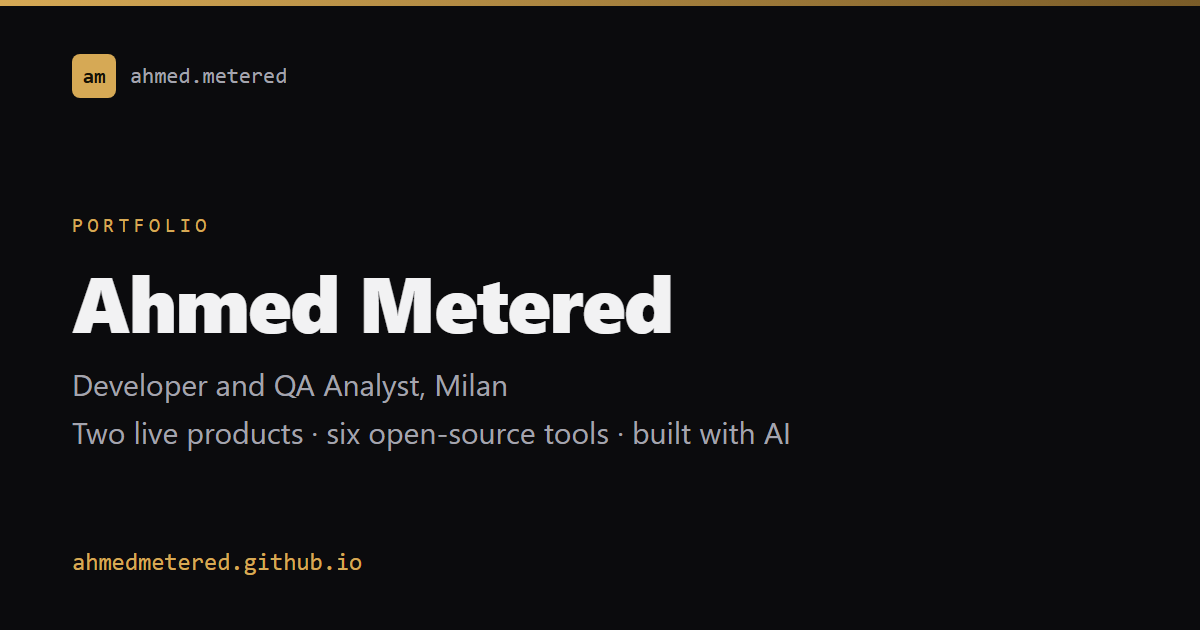
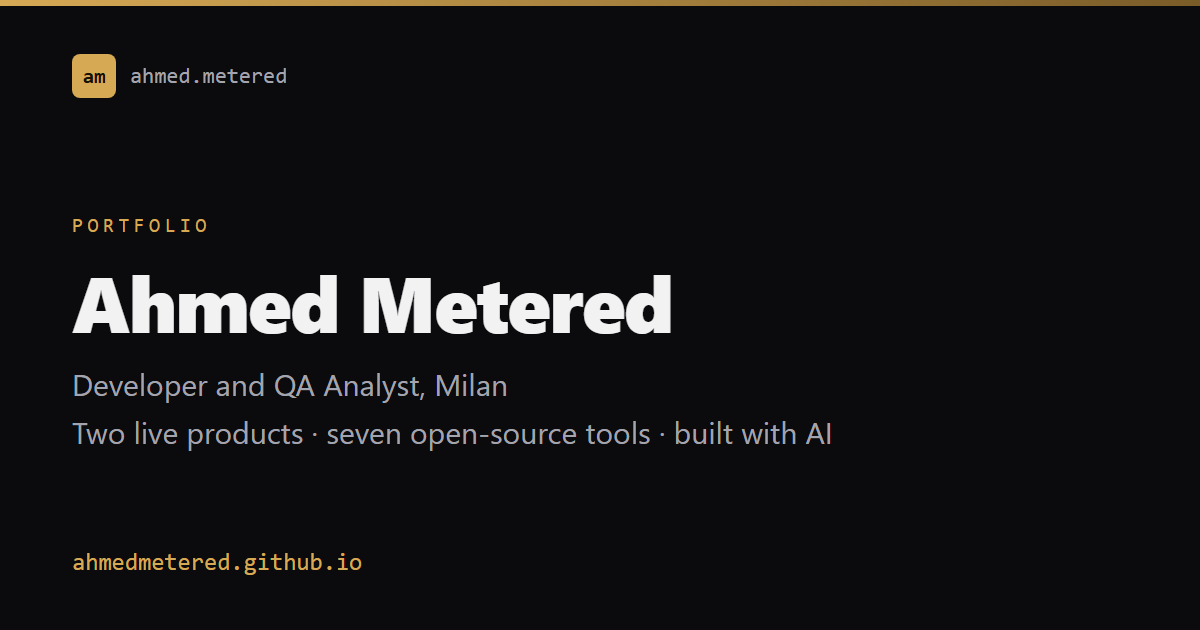
Add anyjobsearch to open-source section, refresh counts to seven repos

Changed region(s): [[0.2775, 0.6635, 0.7092, 0.7238]]

diff --git a/index.html b/index.html
@@ -4,10 +4,10 @@
 <meta charset="UTF-8">
 <meta name="viewport" content="width=device-width, initial-scale=1.0">
 <title>Ahmed Metered · Developer in Milan</title>
-<meta name="description" content="Two live products, a managed-service CRM, and six open-source tools, all built and shipped with AI coding agents. Developer and QA analyst in Milan.">
+<meta name="description" content="Two live products, a managed-service CRM, and seven open-source tools, all built and shipped with AI coding agents. Developer and QA analyst in Milan.">
 <meta name="theme-color" content="#0b0b0d">
 <meta property="og:title" content="Ahmed Metered · Developer in Milan">
-<meta property="og:description" content="Two live products, a managed-service CRM, and six open-source tools, all built and shipped with AI coding agents.">
+<meta property="og:description" content="Two live products, a managed-service CRM, and seven open-source tools, all built and shipped with AI coding agents.">
 <meta property="og:type" content="website">
 <meta property="og:url" content="https://ahmedmetered.github.io/">
 <meta property="og:image" content="https://ahmedmetered.github.io/og-image.png">
@@ -141,6 +141,11 @@ footer{margin-top:64px;border-top:1px solid var(--border);padding:30px 0 46px}
 
   <section id="oss">
     <p class="label">Open source · github.com/ahmedmetered</p>
+
+    <a class="repo" target="_blank" rel="noopener" href="https://github.com/ahmedmetered/anyjobsearch">
+      <div class="repo-head"><h3>anyjobsearch</h3><span class="gh">Agent skills · MIT</span></div>
+      <p>A job-search system that runs on the AI agent you already have: hard eligibility and language gates, five-dimension posting ranking, a built-in one-page CV builder that renders to PDF without LaTeX, and an application tracker. Method adapted from the open-source ai-job-search framework.</p>
+    </a>
 
     <a class="repo" target="_blank" rel="noopener" href="https://github.com/ahmedmetered/prospect-sweep">
       <div class="repo-head"><h3>prospect-sweep</h3><span class="gh">Node.js · Docker · Playwright</span></div>
